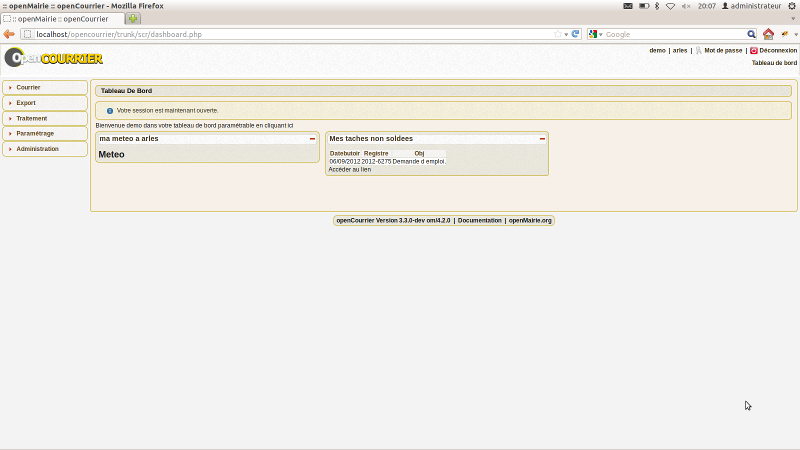
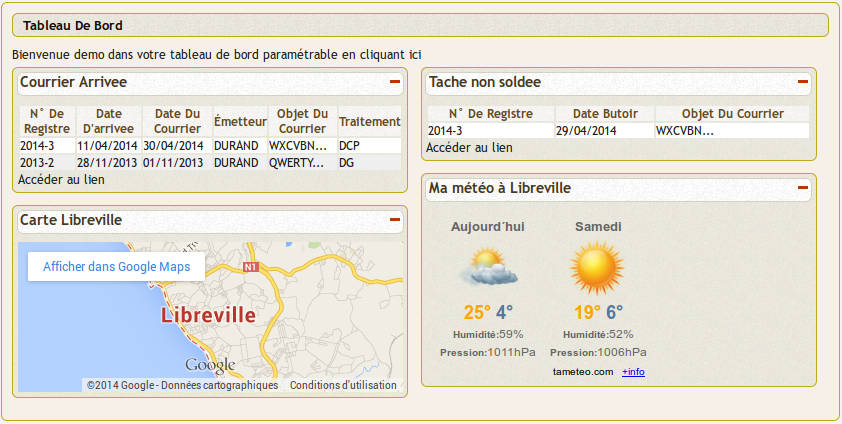
Modification de la documentation 3.3 depuis le tag 3.3.0 et 3.3.1

diff --git a/source/manuel_utilisateur/courrier/index.rst b/source/manuel_utilisateur/courrier/index.rst
@@ -66,7 +66,7 @@ Il est saisi dans courrier arrivée :
 
 - l'Objet : possibilité d'utiliser des textes paramétrés en appuyant sur le lien « bible »
 
-- le Type de dossier : par défaut signalé ou non (:ref:`paramétrable par l'administrateur technique <parametre_dyn_var_inc>`)
+- le Type de dossier : par défaut signalé (:ref:`paramétrable par le profil UTILISATEUR <courrier_type>`)
 
 - le traitement : service chargé du traitement : obligatoire et eventuellement le référent
 
@@ -77,6 +77,12 @@ Il est saisi dans courrier arrivée :
 
 
 le champ sur les pièces jointes est supprimé dans la version 3.2.0
+
+
+Tableau de bord d'un courrier arrivée
+
+.. image:: tdb_courrier_arrivee.png
+
 
 Courrier départ
 ---------------
@@ -112,14 +118,16 @@ Il est saisi dans courrier départ :
 
 - l'Objet : possibilité d'utiliser des textes paramétrés en appuyant sur le lien « bible »
 
-- le Type de dossier : par défaut signalé ou non (:ref:`paramétrable par l'administrateur technique <parametre_dyn_var_inc>`)
+- le Type de dossier : par défaut signalé (:ref:`paramétrable par le profil UTILISATEUR <courrier_type>`)
 
 - le traitement : service chargé du traitement : obligatoire et eventuellement le référent
 
 - la copieà : elu(s) ayant une copie  (facultatif)
 
 
+Tableau de bord d'un courrier sortant
 
+.. image:: tdb_courrier_depart.png
 
 
 Règles : 
@@ -181,7 +189,7 @@ Il est proposé de décrire dans ce paragraphe la saisie d'une tache associé à
 
 
 
-Il est possible de creer ou modifier un courrier dans le formulaire ci dessous
+Il est possible de creer ou modifier une tâche dans le formulaire ci dessous
 
 
 .. image:: form_tache.png
@@ -261,12 +269,17 @@ Les zones à saisir sont les suivantes :
 La recherche de courriers
 *************************
 
-(:menuselection:`Courrier --> Recherche Courrier`)
+(:menuselection:`Courrier --> Recherche`)
 
 La recherche des courriers est accessible en courrier -> recherche courrier
 
-.. image:: recherche_courrier.png
+.. image:: form_recherche_courrier.png
 
+Résultat de la recherche
+
+.. image:: form_recherche_courrier.png
+
+Les critères de recherches sont sauvegardés au changement de page.
 
 **********************
 Les tâches non soldées
@@ -276,10 +289,18 @@ Les tâches non soldées
 
 
 la liste des taches non soldées est accessible en  :
-courrier -> taches non soldees
+courrier -> tâche non soldée
 
-.. image:: tachenonsoldee.png
+.. image:: tab_tachenonsoldee.png
 
+Il est possible de modifier une tâche non soldée dans le formulaire ci dessous
+
+(:ref:`tache`)
+
+.. image:: form_tachenonsoldee.png
+
+
+.. _courrier_archive:
 
 ************
 Les archives
@@ -288,7 +309,17 @@ Les archives
 (:menuselection:`Courrier --> Archive`)
 
 
+.. warning::
 
+    L'archivage des courriers à une date précise se fait sur la date du courrier
+    sans vérification des dates ou de l’exécution des taches associées
 
+la liste des courrier archivés est accessible en  :
+courrier -> Archive
+
+Les archives ne sont pas modifiables et ne sont pas accessibles par le moteur 
+de recherche.
+
+.. image:: tab_courrier_archive.png
 
 

diff --git a/source/manuel_utilisateur/traitement/index.rst b/source/manuel_utilisateur/traitement/index.rst
@@ -11,6 +11,13 @@ Nous vous proposons dans ce chapitre de mettre en oeuvre les traitements.
 .. contents::
 
 
+Les éléments permettant le traitements des courriers sont disponibles dans la
+rubrique 
+(:menuselection:`Traitement`) du menu.
+
+.. image:: menu_traitement.png
+
+
 .. _registre:
 
 ******************************
@@ -45,5 +52,7 @@ Les archives ne sont pas modifiables et ne sont pas accessibles par le moteur
 de recherche. Elles sont uniquement consultables via le menu 
 (:menuselection:`Courrier --> Archive`) :
 
-.. image:: courrier_archive.png
+(:ref:`courrier_archive`)
+
+.. image:: tab_courrier_archive.png
 

diff --git a/source/manuel_utilisateur/parametrage/index.rst b/source/manuel_utilisateur/parametrage/index.rst
@@ -210,16 +210,17 @@ dans l'application lors de la saisie des courriers et n'est pas obligatoire.
 L'écran suivant permet de lister les différents types de courrier ainsi 
 que les actions possibles sur ces derniers.
 
-.. image:: tab_type_correspondant.png
+.. image:: tab_courriertype.png
 
 Il est possible de créer ou modifier un type de courrier dans le 
 formulaire suivant.
 
-.. image:: form_type_correspondant.png
+.. image:: form_courriertype.png
         
 Il est saisi :
 
-- le libellé du type de correspondant
+- le libellé du courrier type
+- une description du courrier type
 
 
 *******************
